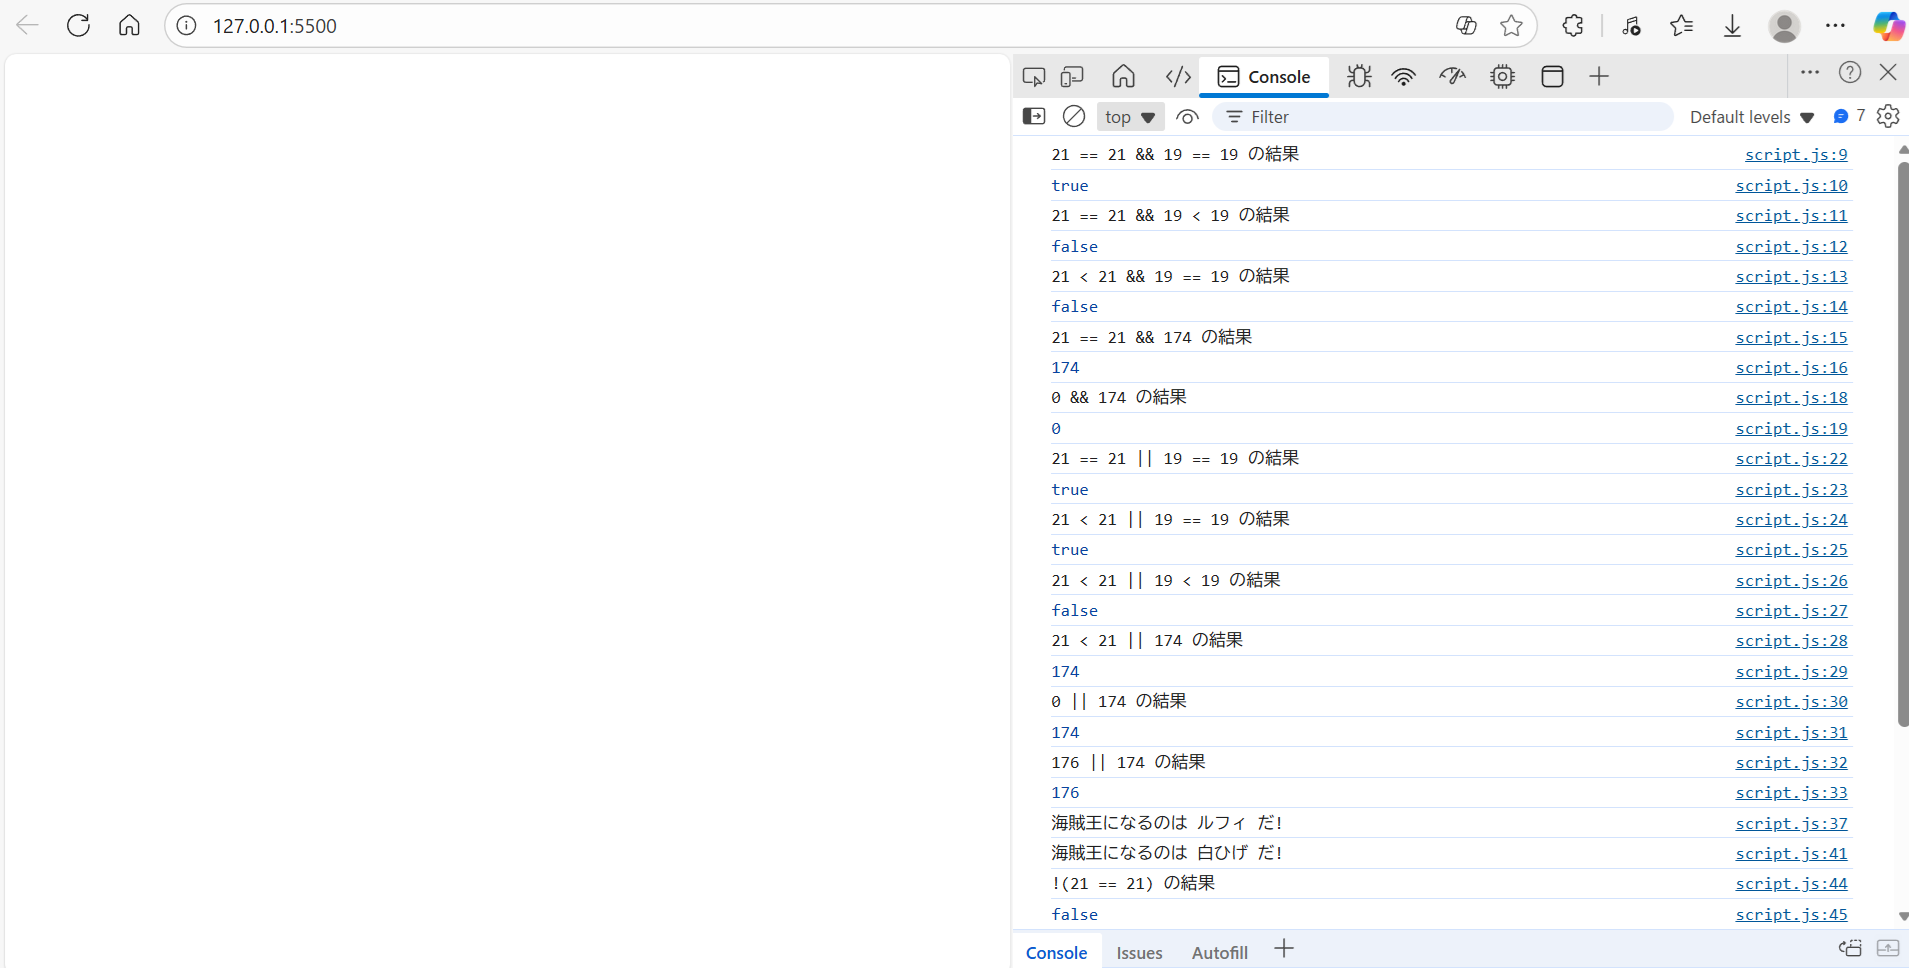
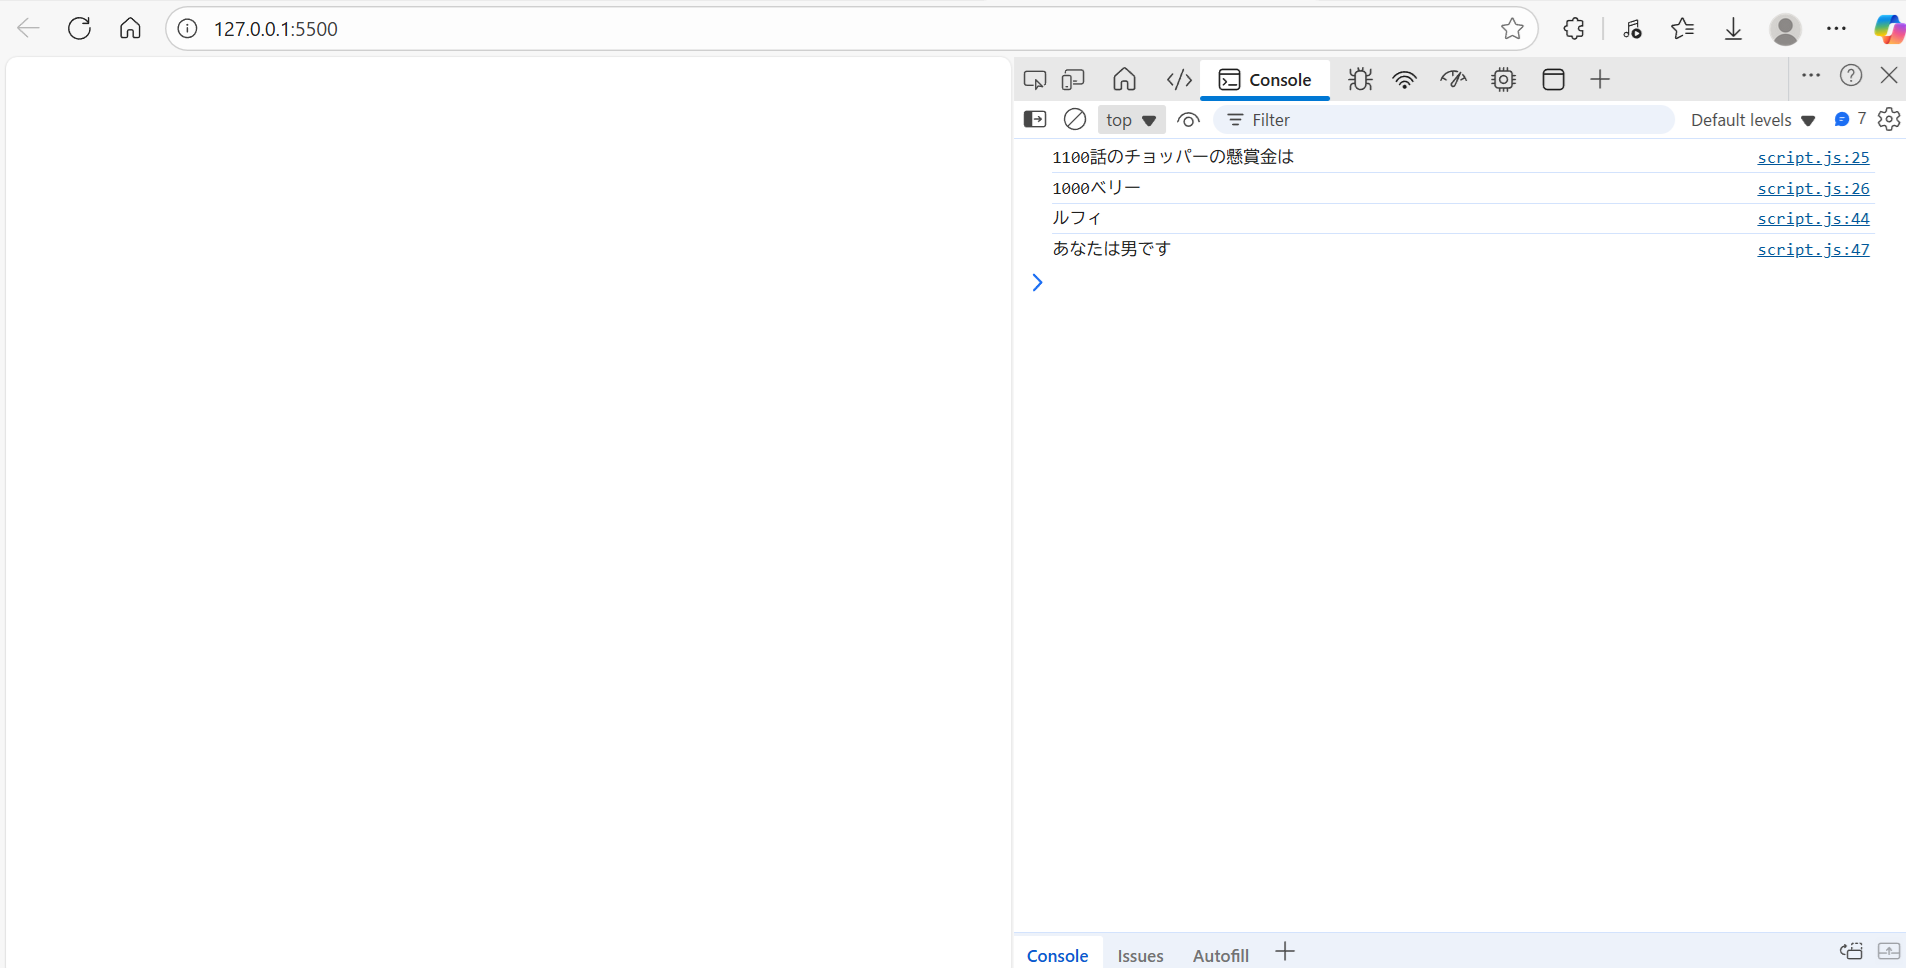
javascript エンジニアの休日11：2025/11/11
JavaScript  条件分岐(プログラミング入門講座)

diff --git a/script.js b/script.js
@@ -1,51 +1,55 @@
-//論理演算子(&&, ||, !)
-// && 左側がtrueなら  右側を返す
-// && 左側がfalseなら 左側を返す
-let zoro =  { age: 21, height: 181};
-let sanji = { age: 21, height: 180};
-let luffy = { age: 19, height: 174};
-let usopp = { age: 19, height: 176};
+/* 条件分岐 if. else if, else
+if(条件1) {         条件1がtureなら処理1を実行
+    処理1            (それ以下は実行されない)
+} else if(条件2) {  条件2がtureなら処理2を実行
+    処理2            (それ以下は実行されない)
+} else {            どの行も満たさないとき処理3を実行
+    処理3
+} */
 
-console.log("21 == 21 && 19 == 19 の結果");
-console.log(zoro.age == sanji.age && luffy.age == usopp.age);
-console.log("21 == 21 && 19 < 19 の結果");
-console.log(zoro.age == sanji.age && luffy.age < usopp.age);
-console.log("21 < 21 && 19 == 19 の結果");
-console.log(zoro.age < sanji.age && luffy.age == usopp.age);
-console.log("21 == 21 && 174 の結果");
-console.log(zoro.age == sanji.age && luffy.height);
-// false:0, null, undefined, NaN, 空文字etc
-console.log("0 && 174 の結果");
-console.log(0 && luffy.height);
-// || 左側がtrueなら  左側を返す
-// || 左側がfalseなら 右側を返す
-console.log("21 == 21 || 19 == 19 の結果");
-console.log(zoro.age == sanji.age || luffy.age == usopp.age);
-console.log("21 < 21 || 19 == 19 の結果");
-console.log(zoro.age < sanji.age || luffy.age == usopp.age);
-console.log("21 < 21 || 19 < 19 の結果");
-console.log(zoro.age < sanji.age || luffy.age < usopp.age);
-console.log("21 < 21 || 174 の結果");
-console.log(zoro.age < sanji.age || luffy.height);
-console.log("0 || 174 の結果");
-console.log(0 || luffy.height);
-console.log("176 || 174 の結果");
-console.log(usopp.height || luffy.height);
+let episode;
+let chopper_bounty;
+// episode = 100;
+// episode = 500;
+// episode = 900;
+episode = 1100;
+if (episode <=435) {
+    chopper_bounty = 0;
+} else if (episode <= 800) {
+    chopper_bounty = 50;
+} else if (episode <= 1057) {
+    chopper_bounty = 100;
+} else {
+    chopper_bounty = 1000;
+}
+console.log(`${episode}話のチョッパーの懸賞金は`);
+console.log(`${chopper_bounty}ベリー`);
 
-let pirate_king = "";
-pirate_king = pirate_king || "ルフィ";
-console.log(`海賊王になるのは ${pirate_king} だ!`);
+/* switch 変数の値で処理を切り分ける
+switch (式) {
+  case 値1 :
+    処理1
+  case 値2 :
+    処理2
+  default :         合致するケースが見つからなかったとき
+    処理3
+}
+*/
 
-pirate_king = "白ひげ";
-pirate_king = pirate_king || "ルフィ";
-console.log(`海賊王になるのは ${pirate_king} だ!`);
+let luffy    = { name: "ルフィ", gender: "男"};
+let nami     = { name: "ナミ", gender: "女"};
+let vegapunk = { name: "ベガバンク", gender: "不明"};
 
-//!式がfalseの場合はtrue、trueの場合はfalse
-console.log("!(21 == 21) の結果");
-console.log(!(zoro.age == sanji.age));
-console.log("!(19 < 19) の結果");
-console.log(!(zoro.age < sanji.age));
-console.log("!(174) の結果");
-console.log(!(luffy.height));
-console.log("!(0) の結果");
-console.log(!(0));
+let person_gender = luffy.gender;
+console.log(luffy.name);
+switch (person_gender) {
+    case "男":
+        console.log("あなたは男です");
+        break;
+    case "女":
+        console.log("あなたは女です");
+        break;
+    default:
+        console.log("あなたは何者ですか?");
+        break;
+}
